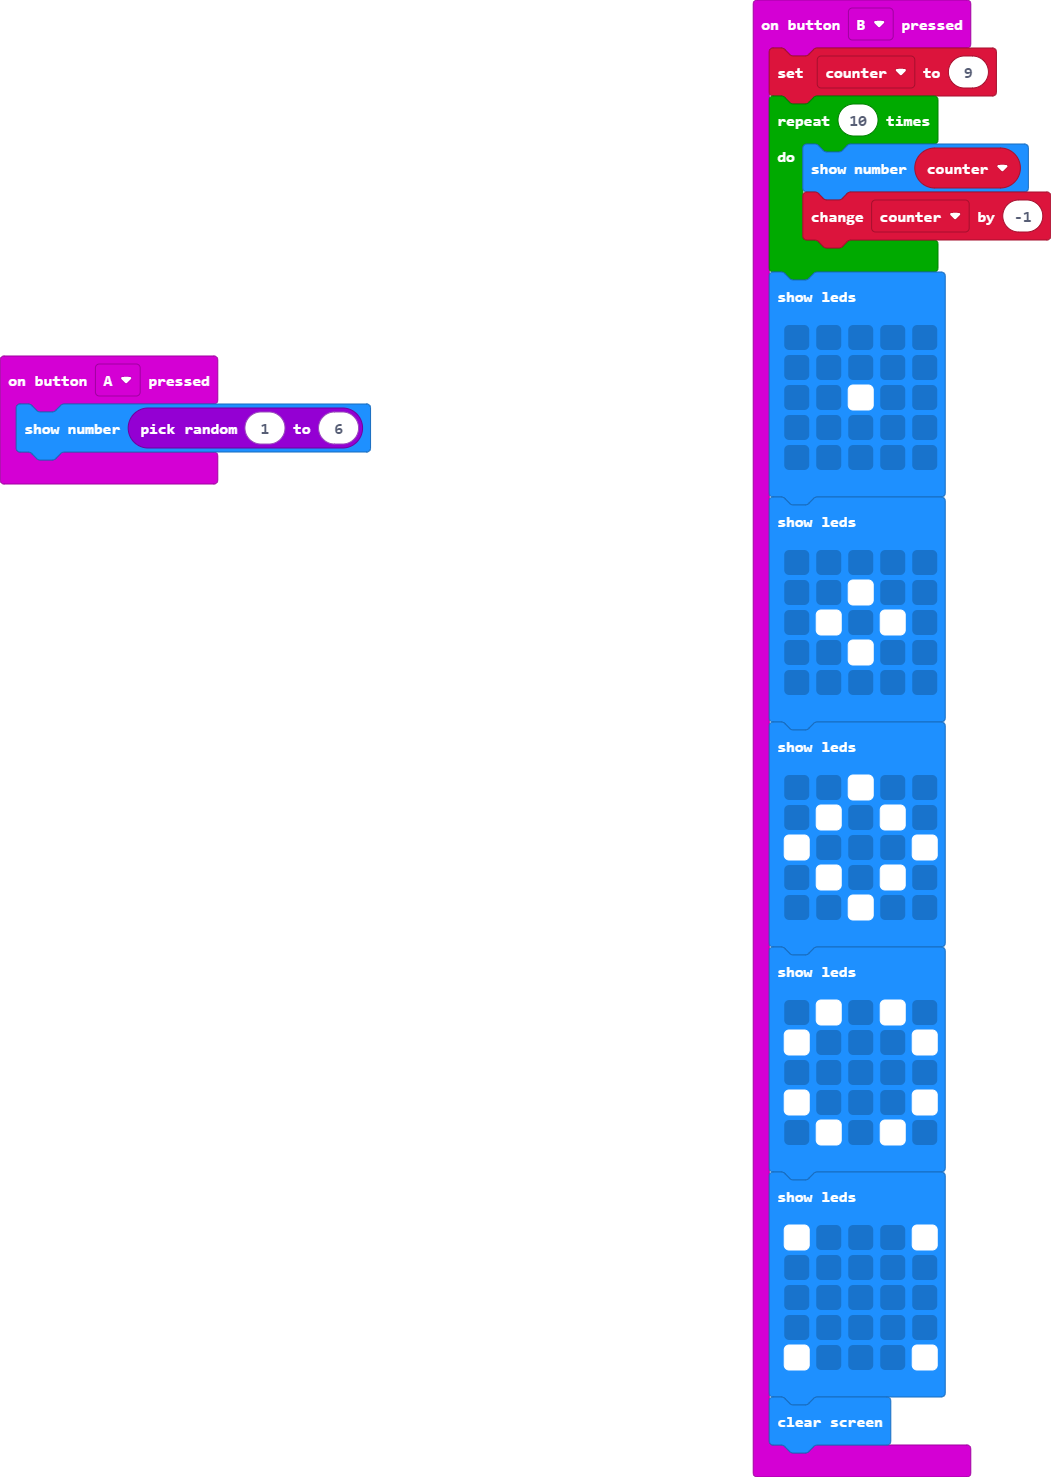
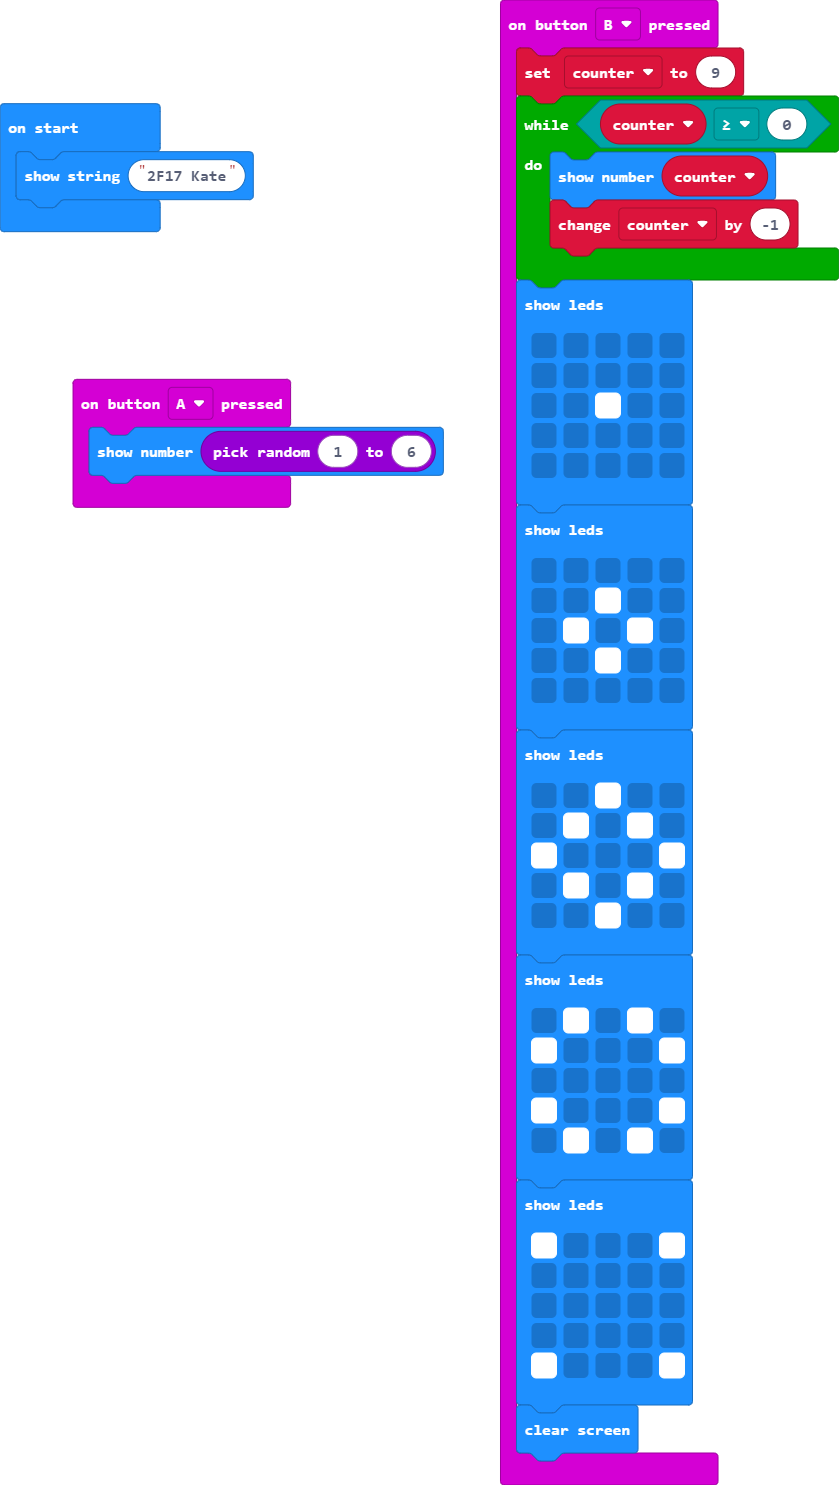
Update main.blocks, main.ts

diff --git a/main.ts b/main.ts
@@ -1,10 +1,9 @@
-let counter = 0
 input.onButtonPressed(Button.A, function () {
     basic.showNumber(randint(1, 6))
 })
 input.onButtonPressed(Button.B, function () {
     counter = 9
-    for (let index = 0; index < 10; index++) {
+    while (counter >= 0) {
         basic.showNumber(counter)
         counter += -1
     }
@@ -45,3 +44,5 @@ input.onButtonPressed(Button.B, function () {
         `)
     basic.clearScreen()
 })
+let counter = 0
+basic.showString("2F17 Kate")
